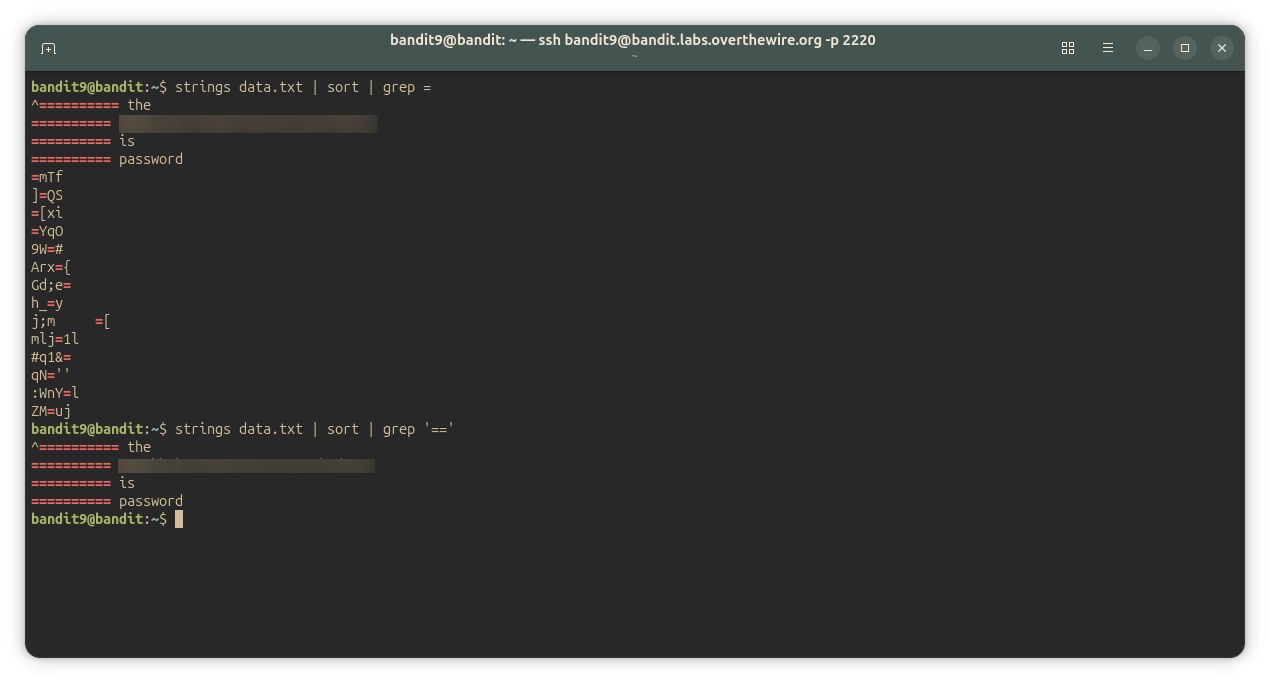
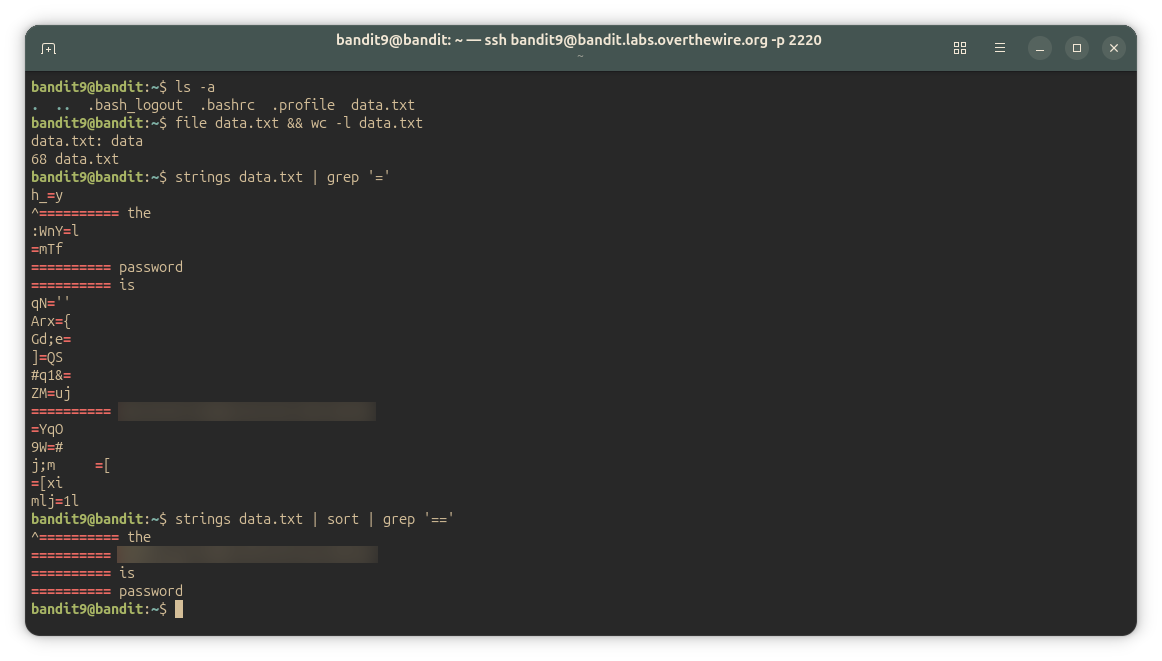
New image2 in Bandit/Assets/LVL9, adding key takeaway in level eight's walkthrough, adding complete level nine's walkthrough

diff --git a/Bandit/Walkthroughs/Level9/Level9.md b/Bandit/Walkthroughs/Level9/Level9.md
@@ -24,10 +24,10 @@ grep, sort, uniq, strings, base64, tr, tar, gzip, bzip2, xxd
 ## Commands Used
 
 - `ssh` — Connects securely to the remote machine
-- `[comando]` — [Descripción]
-- `[comando]` — [Descripción]
-- `[comando]` — [Descripción]
 - `exit` — Close the SSH session
+- `ls` `la -a` — Shows the directory content including hidden files/directories
+- `file` — returns information about the type of file we're working with. ASCII text, data (binary), etc.
+- `grep` — returns lines that matches a pattern in a file or in a directory
 
 ---
 
@@ -45,46 +45,67 @@ Use the password you found at the end of [Bandit Level 8 → Level 9](../Level8/
 
 ---
 
-### Step 2 — [Título del paso]
+### Step 2 — Enumeration
+# list the home directory
+list the contents of the directory with `ls -a`, we'll find the target file (data.txt). To enumerate, we'll use `file` and `wc -l` (`-l` is the parameter to count lines) to get more information about the filetype in lines count, running `wc -l` right after `file` with '&&' pipe.
 
 ~~~ bash
-bandit9@bandit:~$ [comando]
-[salida]
+bandit9@bandit:~$ ls -a
+.  ..  .bash_logout  .bashrc  .profile  data.txt
+bandit9@bandit:~$ file data.txt && wc -l data.txt
+data.txt: data
+68 data.txt
 ~~~
 
-[Explicación breve de lo que se observa]
+The target's data type is `data`, is a Binary, non-human readable file like ASCII text. Display it in the terminal would just show a bunch of trash, so we're gonna use some tools.
+In the description of 'strings' man-file says:
+
+> **strings** prints the printable character sequences that are at least 4 characters long ... and are followed by an unprintable character.
+
+**strings** returns all the printable characters sequences that are followed by a non-printable character. This could be useful for printing all the string sequences in the file, and then figure out the password by suppressing the clutter that returns.
+This could be done if we pipe out the result of 'strings' into 'grep', using the argument '=='.
+
+The argument '=' is probably going to work, but the requirements talk about "preceded by several ‘=’ characters".
+
+ So may is convenient to use '==' as parameter instaed of '=', avoiding `grep` to return lines where a single '=' matches but is unrelated to the password we're looking for. Anyway, we're using both:
+
+ ---
+
+## Step 3: Getting the password
 
 ~~~ bash
-bandit9@bandit:~$ [comando]
-[salida]
+bandit9@bandit:~$ strings data.txt | grep '='
+h_=y
+^========== the
+:WnY=l
+=mTf
+========== password
+========== is
+qN=''
+Arx={
+Gd;e=
+]=QS
+#q1&=
+ZM=uj
+========== <password_here>
+=YqO
+9W=#
+j;m	=[
+=[xi
+mlj=1l
+bandit9@bandit:~$ strings data.txt | sort | grep '=='
+^========== the
+========== <password_here>
+========== is
+========== password
+bandit9@bandit:~$ 
 ~~~
 
-[Explicación breve de lo que se observa]
+> When I noticed that the password wasn't the only thing matching `=`, I used `sort` to group the related lines together. Anyway, It didn't have much effect because those four lines are the only ones that match the pattern `'=='`.
 
 ---
 
-### Step 3 — Solution
-
-~~~ bash
-bandit9@bandit:~$ [comando final]
-<password_here>
-~~~
-
-#### Explanation
-
-[Explicación de por qué se usó este comando y cómo funciona]
-
-[Explicación de qué pasaría con un enfoque alternativo / errores comunes]
-
-~~~ bash
-bandit9@bandit:~$ [comando alternativo]
-~~~
-
-[Explicación del resultado y por qué no sirve / por qué sí]
-
----
-
-#### Screenshots/
+#### Screenshots
 
 <img src = "../../Assets/LVL9/image1.png">
 <img src = "../../Assets/LVL9/image2.png">
@@ -93,7 +114,5 @@ bandit9@bandit:~$ [comando alternativo]
 
 ## Key Takeaways
 
-- [Aprendizaje clave 1]
-- [Aprendizaje clave 2]
-- [Aprendizaje clave 3]
-- [Aprendizaje clave 4]
+- Always get information about the file you're working with: `file data.txt && wc -l data.txt` as enumeration instaed `cat`
+- If we need to find information buried under the binary's data, you should use `string` to get all the readable characters sequences of the file you are working with. Then you can filter with `grep`

diff --git a/Bandit/Walkthroughs/Level8/Level8.md b/Bandit/Walkthroughs/Level8/Level8.md
@@ -96,3 +96,4 @@ that's why we're using `sort data.txt | uniq -u`:
 - **ALWAYS read the 'EXTRA' section in the man's document file** of every command I use, because then I get lost because I didn't read something as important as this: _"Note: uniq does not detect repeated lines unless they are adjacent."_
 - `sort [FILE] | uniq -u` is a standard Unix pattern for finding unique lines in a file with many duplicates.
 - `uniq` only detects **adjacent** duplicates, so always `sort` first when repeated lines may be mixed up. The pipe `|` is what makes this work: the output of `sort` becomes the input of `uniq`.
+- After Writing this level's documentation, I found out that `wc -l` is way better than `grep -c '' [FILE]`. I didn't use it here because I didn't know about it.
